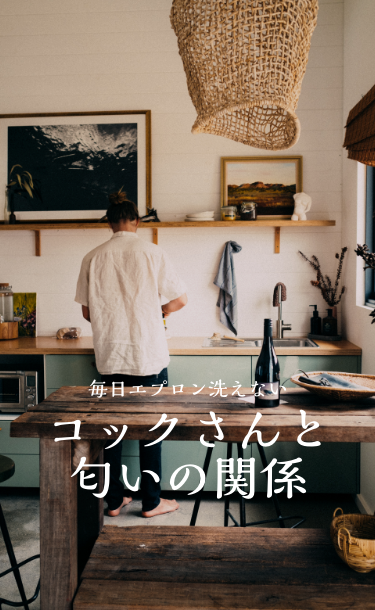
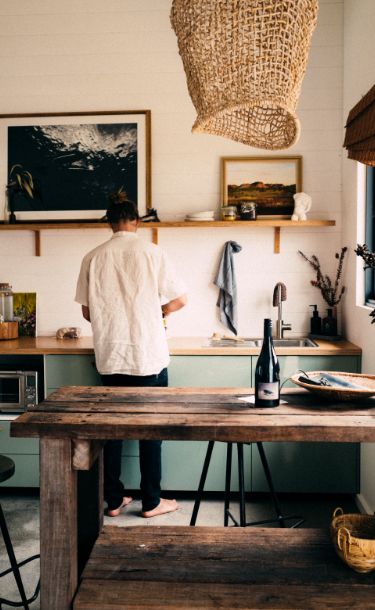
update cover and title. adjust title positions

diff --git a/index.html b/index.html
@@ -41,15 +41,15 @@
       <div class="top-articles-row">
         <div class="top-articles-column">
           <a href="articles/1/">
-            <div class="top-article-item reveal fade-bottom">
-              <div class="top-article-cover-image">
+            <div class="top-article-item">
+              <div class="top-article-cover-image reveal fade-bottom">
                 <img src="articles/1/assets/images/cover.png">
               </div>
               <div class="top-article-item-info">
-                <div class="top-article-item-title reveal fade-top">
-                  <img src="articles/1/assets/images/title.png" style="width: 70%">
+                <div class="top-article-item-title-1 reveal fade-top">
+                  <img src="articles/1/assets/images/title.png">
                 </div>
-                <div class="top-article-item-info-readmore">
+                <div class="top-article-item-info-readmore reveal fade-bottom">
                   <div class="top-article-item-info-lg-styler-text">
                     LG Styler
                   </div>
@@ -67,10 +67,10 @@
               <img src="articles/2/assets/images/cover.png">
             </div>
             <div class="top-article-item-info">
-              <div class="top-article-item-title reveal fade-top">
-                <img src="articles/2/assets/images/title.png" style="width: 70%">
+              <div class="top-article-item-title-2 reveal fade-top">
+                <img src="articles/2/assets/images/title.png">
               </div>
-              <div class="top-article-item-info-readmore">
+              <div class="top-article-item-info-readmore reveal fade-bottom">
                 <img src="assets/images/styler_readmore.png">
               </div>
             </div>
@@ -82,10 +82,10 @@
               <img src="articles/3/assets/images/cover.png">
             </div>
             <div class="top-article-item-info">
-              <div class="top-article-item-title reveal fade-top">
-                <img src="articles/3/assets/images/title.png" style="width: 70%">
+              <div class="top-article-item-title-3 reveal fade-top">
+                <img src="articles/3/assets/images/title.png">
               </div>
-              <div class="top-article-item-info-readmore">
+              <div class="top-article-item-info-readmore reveal fade-bottom">
                 <img src="assets/images/styler_readmore.png">
               </div>
             </div>
@@ -97,8 +97,8 @@
               <img src="articles/4/assets/images/cover.png">
             </div>
             <div class="top-article-item-info">
-              <div class="top-article-item-title reveal fade-top">
-                <img src="articles/4/assets/images/title.png" style="width: 70%">
+              <div class="top-article-item-title-4 reveal fade-top">
+                <img src="articles/4/assets/images/title.png">
               </div>
             </div>
           </div>
@@ -109,16 +109,86 @@
               <img src="articles/5/assets/images/cover.png">
             </div>
             <div class="top-article-item-info">
-              <div class="top-article-item-title">
-                <img src="articles/5/assets/images/title.png" style="width: 70%">
+              <div class="top-article-item-title-5 reveal fade-top">
+                <img src="articles/5/assets/images/title.png">
               </div>
-              <div class="top-article-item-info-readmore">
+              <div class="top-article-item-info-readmore reveal fade-bottom">
                 <img src="assets/images/styler_readmore.png">
               </div>
             </div>
           </div>
         </div>
         <div class="top-articles-column">
+          <div class="top-article-item reveal fade-bottom">
+            <div class="top-article-cover-image">
+              <img src="articles/6/assets/images/cover.png">
+            </div>
+            <div class="top-article-item-info">
+              <div class="top-article-item-title-6 reveal fade-top">
+                <img src="articles/6/assets/images/title.png">
+              </div>
+              <div class="top-article-item-info-readmore reveal fade-bottom">
+                <img src="assets/images/styler_readmore.png">
+              </div>
+            </div>
+          </div>
+        </div>
+        <div class="top-articles-column">
+          <div class="top-article-item reveal fade-bottom">
+            <div class="top-article-cover-image">
+              <img src="articles/7/assets/images/cover.png">
+            </div>
+            <div class="top-article-item-info">
+              <div class="top-article-item-title-7 reveal fade-top">
+                <img src="articles/7/assets/images/title.png">
+              </div>
+              <div class="top-article-item-info-readmore reveal fade-bottom">
+                <img src="assets/images/styler_readmore.png">
+              </div>
+            </div>
+          </div>
+        </div>
+        <div class="top-articles-column">
+          <div class="top-article-item reveal fade-bottom">
+            <div class="top-article-cover-image">
+              <img src="articles/8/assets/images/cover.png">
+            </div>
+            <div class="top-article-item-info">
+              <div class="top-article-item-title-8 reveal fade-top">
+                <img src="articles/8/assets/images/title.png">
+              </div>
+              <div class="top-article-item-info-readmore reveal fade-bottom">
+                <img src="assets/images/styler_readmore.png">
+              </div>
+            </div>
+          </div>
+        </div>
+        <div class="top-articles-column">
+          <div class="top-article-item reveal fade-bottom">
+            <div class="top-article-cover-image">
+              <img src="articles/9/assets/images/cover.png">
+            </div>
+            <div class="top-article-item-info">
+              <div class="top-article-item-title-9 reveal fade-top">
+                <img src="articles/9/assets/images/title.png">
+              </div>
+              <div class="top-article-item-info-readmore reveal fade-bottom">
+                <img src="assets/images/styler_readmore.png">
+              </div>
+            </div>
+          </div>
+        </div>
+        <div class="top-articles-column">
+          <div class="top-article-item reveal fade-bottom">
+            <div class="top-article-cover-image">
+              <img src="articles/10/assets/images/cover.png">
+            </div>
+            <div class="top-article-item-info">
+              <div class="top-article-item-info-readmore reveal fade-bottom">
+                <img src="assets/images/styler_readmore.png">
+              </div>
+            </div>
+          </div>
         </div>
       </div>
     </div>

diff --git a/assets/css/articles-container.css b/assets/css/articles-container.css
@@ -29,11 +29,58 @@
 .top-article-item-info {
   position: absolute;
   width: 100%;
-  height: 70%;
+  height: 100%;
   bottom: 0;
   padding-bottom: 8.533333333333333%;
   margin: auto;
 }
+.top-article-item-title-1 {
+  margin: auto;
+  margin-top: 179px;
+  width: 233px;
+}
+.top-article-item-title-2 {
+  margin: auto;
+  margin-top: 455px;
+  width: 181px;
+}
+.top-article-item-title-3 {
+  margin-left: 88px;
+  margin-top: 439px;
+  width: 210px;
+}
+.top-article-item-title-4 {
+  margin: auto;
+  margin-top: 70px;
+  width: 146px;
+}
+
+.top-article-item-title-5 {
+  margin-left: 70px;
+  margin-top: 279px;
+  width: 248px;
+}
+.top-article-item-title-6 {
+  margin: auto;
+  margin-top: 94px;
+  width: 238px;
+}
+.top-article-item-title-7 {
+  margin: auto;
+  margin-top: 404px;
+  width: 202.23px;
+}
+.top-article-item-title-8 {
+  margin: auto;
+  margin-top: 229px;
+  width: 142px;
+}
+.top-article-item-title-9 {
+  margin: auto;
+  margin-top: 411px;
+  width: 288px;
+}
+
 .top-article-item-title img {
   margin: auto;
 }

diff --git a/assets/css/animate.css b/assets/css/animate.css
@@ -23,7 +23,7 @@
   opacity: 1;
 }
 .active.fade-top {
-  animation: fade-top 1s ease-in;
+  animation: fade-top 1.5s ease-out;
 }
 .active.fade-bottom {
   animation: fade-bottom 1s ease-in;
@@ -36,7 +36,7 @@
 }
 @keyframes fade-top {
   0% {
-    transform: translateY(-15px);
+    transform: translateY(-25px);
     opacity: 0;
   }
   100% {
@@ -46,11 +46,11 @@
 }
 @keyframes fade-bottom {
   0% {
-    transform: translateY(20px);
+    transform: translateY(25px);
     opacity: 0;
   }
   100% {
-    transform: translateY(0) opacity 1s;
+    transform: translateY(0) opacity 2s;
     opacity: 1;
   }
 }

diff --git a/assets/css/style.css b/assets/css/style.css
@@ -24,6 +24,7 @@ body {
   margin-left: auto;
   margin-right: auto;
   position: absolute;
+  top: 11px;
   left: 0;
   right: 0;
   text-align: center;
